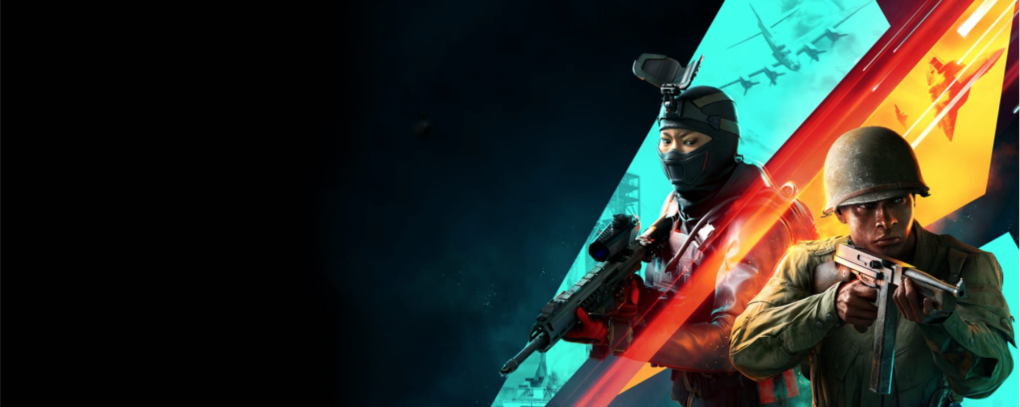
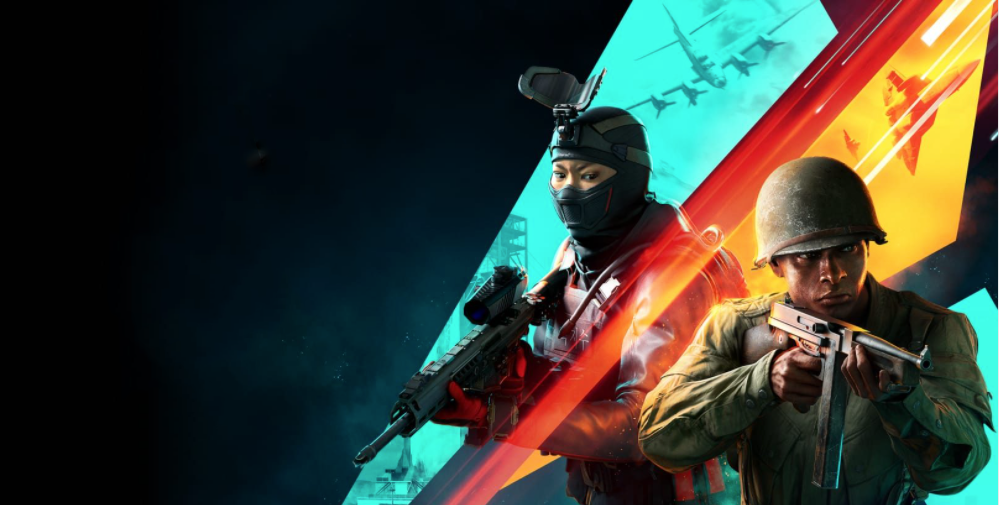
FINALLY SOLVED BG BUG

diff --git a/style.css b/style.css
@@ -60,25 +60,24 @@ navbar {
   display: flex;
   padding: 15px;
 }
-
+.mainsection {
+  height: 80vh;
+}
 .background-section {
-  height: 75vh;
-  width: 100vw;
   background-image: url("Design_system/imgEA.png");
+  height: 80%;
+  background-position: center;
   background-repeat: no-repeat;
   background-size: cover;
-  display: flex;
-  flex-direction: column;
-  justify-content: center;
+  position: relative;
 }
-
 .battlefield-text {
-  display: flex;
+  text-align: center;
+  position: absolute;
+  top: 50%;
+  left: 50%;
+  transform: translate(-80%, -50%);
   color: white;
-  width: 30vw;
-  margin-left: 20vw;
-  flex-direction: column;
-  align-items: center;
 }
 
 .battlefield-text-head {
@@ -664,17 +663,17 @@ navbar {
     display: none;
   }
   .gradientbar {
-    height: 20vh;
+    height: auto;
     display: flex;
     flex-direction: column;
   }
   .background-section {
     background-image: url("Design_system/imgEA-medium.png");
-    background-size: auto;
   }
   .battlefield-text {
-    display: flex;
     margin-left: unset;
+    font-size: smaller;
+    left: 44%;
   }
 
   #sec-four {
@@ -756,10 +755,6 @@ navbar {
 }
 
 @media screen and (max-width: 750px) {
-  .battlefield-text {
-    display: none;
-  }
-
   body {
     margin: 0%;
   }
@@ -769,64 +764,89 @@ navbar {
     src: url(ElectronicArtsText-Bold.woff2);
   }
 
-  
   .warnings {
     display: none;
   }
-  
+
   .lists {
     display: grid;
     grid-template-columns: repeat(2, auto);
   }
-  
+
   .first-footer-links {
     white-space: normal;
     display: flex;
     flex-direction: column;
     justify-content: space-between;
   }
-  
+
   .second-footer ul {
     white-space: normal;
   }
-  
+
   .second-footer ul li {
     margin-right: 0;
   }
-  
+
   .scd-ftr-nav select {
     width: 80vw;
     margin-left: 5.5vw;
   }
-  
+
   #little-card-fifa {
     background: url("assets/fifa22.jpg");
     background-size: cover;
   }
-  
+
   #little-card-madden {
     background: url("assets/madden.jpg");
     background-size: cover;
   }
-  
+
   #little-card-battlefield {
     background: url("assets/battlefield-img.jpg");
     background-size: cover;
   }
-  
+
   #little-card-apex {
     background: url("assets/apex.jpg");
     background-size: cover;
   }
-  
+
   #little-card-sims4 {
     background: url("assets/sims4.jpg");
     background-size: cover;
   }
-  
+
   #little-card-ittakestwo {
     background: url("assets/ittakestwo.jpg");
     background-size: cover;
+  }
+  .mainsection {
+    height: 60vh;
+  }
+  .background-section {
+    background-image: url("Design_system/imgEA-small.png");
+    height: 50%;
+  }
+  .gradientbar {
+    position: relative;
+    top: 40%;
+  }
+  .battlefield-text {
+    display: flex;
+    padding-left: 20%;
+    padding-right: 20%;
+    margin: 0;
+    width: 80%;
+    height: 90%;
+    margin-top: -124px;
+    background-color: rgba(5, 42, 56, 255);
+    font-size: xx-small;
+    flex-direction: column;
+    position: absolute;
+    transform: translate(-40%, 103%);
+    color: white;
   }
 }
 
@@ -882,11 +902,7 @@ navbar {
   height: 8%;
 }
 
-  
-
-
 #little-card-ittakestwo {
   background: url("assets/ittakestwo.jpg");
   background-size: cover;
 }
-

diff --git a/Design_system/design.css b/Design_system/design.css
@@ -49,7 +49,6 @@ p {
   display: flex;
   justify-content: center;
   height: 100%;
-  width: 300px;
 }
 
 .alternative_btn {
@@ -230,15 +229,16 @@ img {
   background-image: url("");
 }
 
-
 .card-giochi-gradient {
-
-  background: linear-gradient(to top right, rgb(41, 41, 102), rgb(206, 54, 168));
+  background: linear-gradient(
+    to top right,
+    rgb(41, 41, 102),
+    rgb(206, 54, 168)
+  );
   width: 100%;
   height: 100%;
   opacity: 0;
   position: absolute;
-
 }
 
 .card-giochi:hover {
@@ -251,12 +251,15 @@ img {
 }
 
 .card-giochi-gradient:hover {
-  background: linear-gradient(90deg, rgba(58, 62, 129, 1) 0%, rgba(230, 122, 125, 1) 100%);
+  background: linear-gradient(
+    90deg,
+    rgba(58, 62, 129, 1) 0%,
+    rgba(230, 122, 125, 1) 100%
+  );
   width: 100%;
   height: 100%;
-  opacity: .9;
+  opacity: 0.9;
   position: absolute;
-
 }
 
 .card-giochi-elementi {
@@ -264,8 +267,6 @@ img {
   display: flex;
   justify-content: center;
   flex-direction: column;
-
-
 }
 
 .card-giochi-nome {
@@ -276,7 +277,6 @@ img {
 .card-giochi:hover .card-giochi-nome {
   transform: translateY(-35px);
   transition: 0.5s;
-
 }
 
 .card-giochi-testo {
